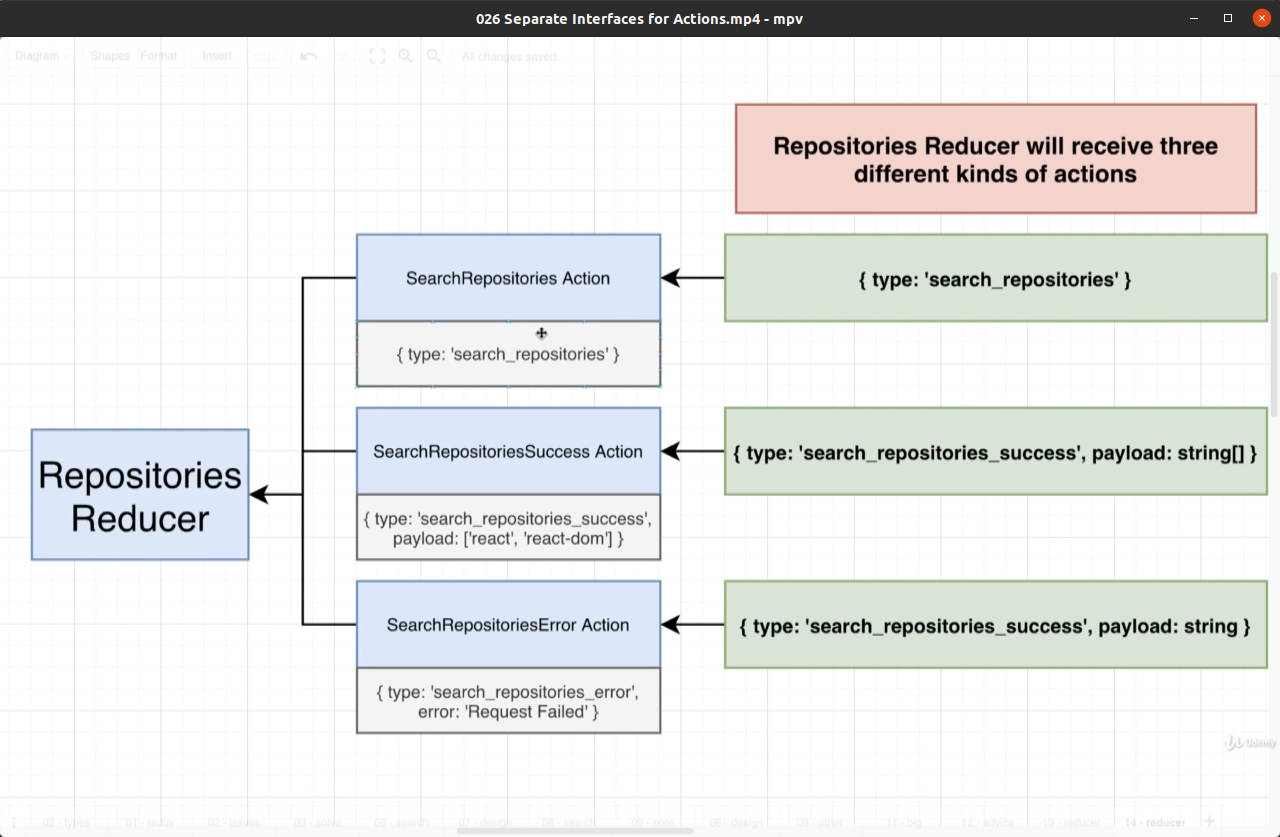
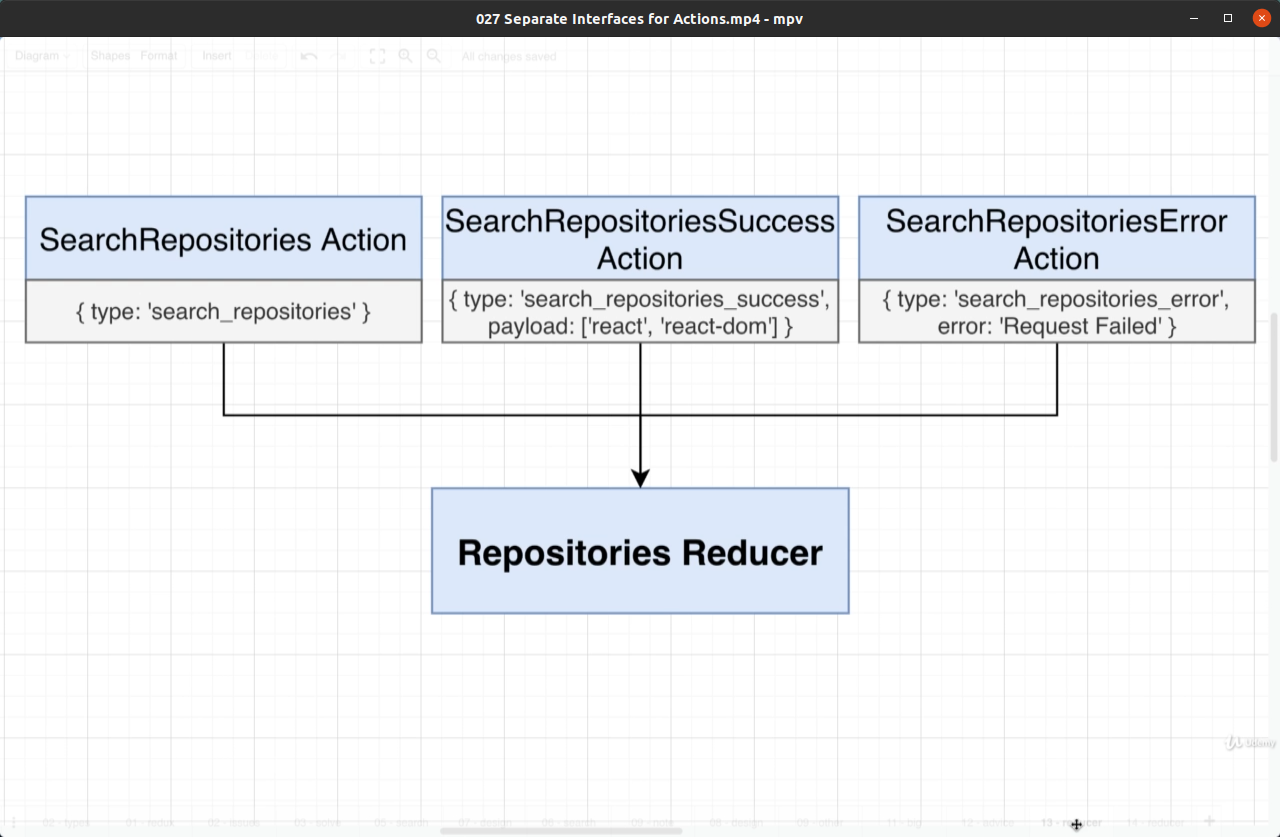
04. Typescript with Redux | 029 Adding an Action Type Enum

diff --git a/apps/app2/src/state/reducers/reposi/repositoriesReducer.ts b/apps/app2/src/state/reducers/reposi/repositoriesReducer.ts
@@ -4,13 +4,41 @@ interface IRepositoryState {
   data: string[];
 }
 
-const reducer = (state: IRepositoryState, action: any) => {
+interface ISearchRepositoriesAction {
+  type: EActionType.SEARCH_REPOSITIORIES;
+}
+
+interface ISearchRepositoriesSuccessAction {
+  type: EActionType.SEARCH_REPOSITORIES_SUCCESS;
+  payload: string[];
+}
+
+interface ISearchRepositoriesErrorAction {
+  type: EActionType.SEARCH_REPOSITORIES_ERROR;
+  payload: string;
+}
+
+type TAction =
+  | ISearchRepositoriesAction
+  | ISearchRepositoriesSuccessAction
+  | ISearchRepositoriesErrorAction;
+
+enum EActionType {
+  SEARCH_REPOSITIORIES = 'search_repositories',
+  SEARCH_REPOSITORIES_SUCCESS = 'search_repositories_success',
+  SEARCH_REPOSITORIES_ERROR = 'search_repositories_error',
+}
+
+const reducer = (
+  state: IRepositoryState,
+  action: TAction
+): IRepositoryState => {
   switch (action.type) {
-    case 'search_repositories':
-      return { loading: true, error: null, data: {} };
-    case 'search_repositories_success':
+    case EActionType.SEARCH_REPOSITIORIES:
+      return { loading: true, error: null, data: [] };
+    case EActionType.SEARCH_REPOSITORIES_SUCCESS:
       return { loading: false, error: null, data: action.payload };
-    case 'search_repositories_error':
+    case EActionType.SEARCH_REPOSITORIES_ERROR:
       return { loading: false, error: action.payload, data: [] };
     default:
       return state;

diff --git a/Development-App2.md b/Development-App2.md
@@ -45,6 +45,34 @@ https://registry.npmjs.org/-/v1/search?text=react
 
 ### 024 Reducer Setup
 
+<br/>
+
+### 025 Annotating the Return Type
+
+<br/>
+
+### 026 Typing an Action
+
+<br/>
+
+### 027 Separate Interfaces for Actions
+
+<br/>
+
+![Application](/img/pic-m04-p06.png?raw=true)
+
+<br/>
+
+![Application](/img/pic-m04-p07.png?raw=true)
+
+<br/>
+
+### 028 Applying Action Interfaces
+
+<br/>
+
+### 029 Adding an Action Type Enum
+
 <br/><br/>
 
 ---
